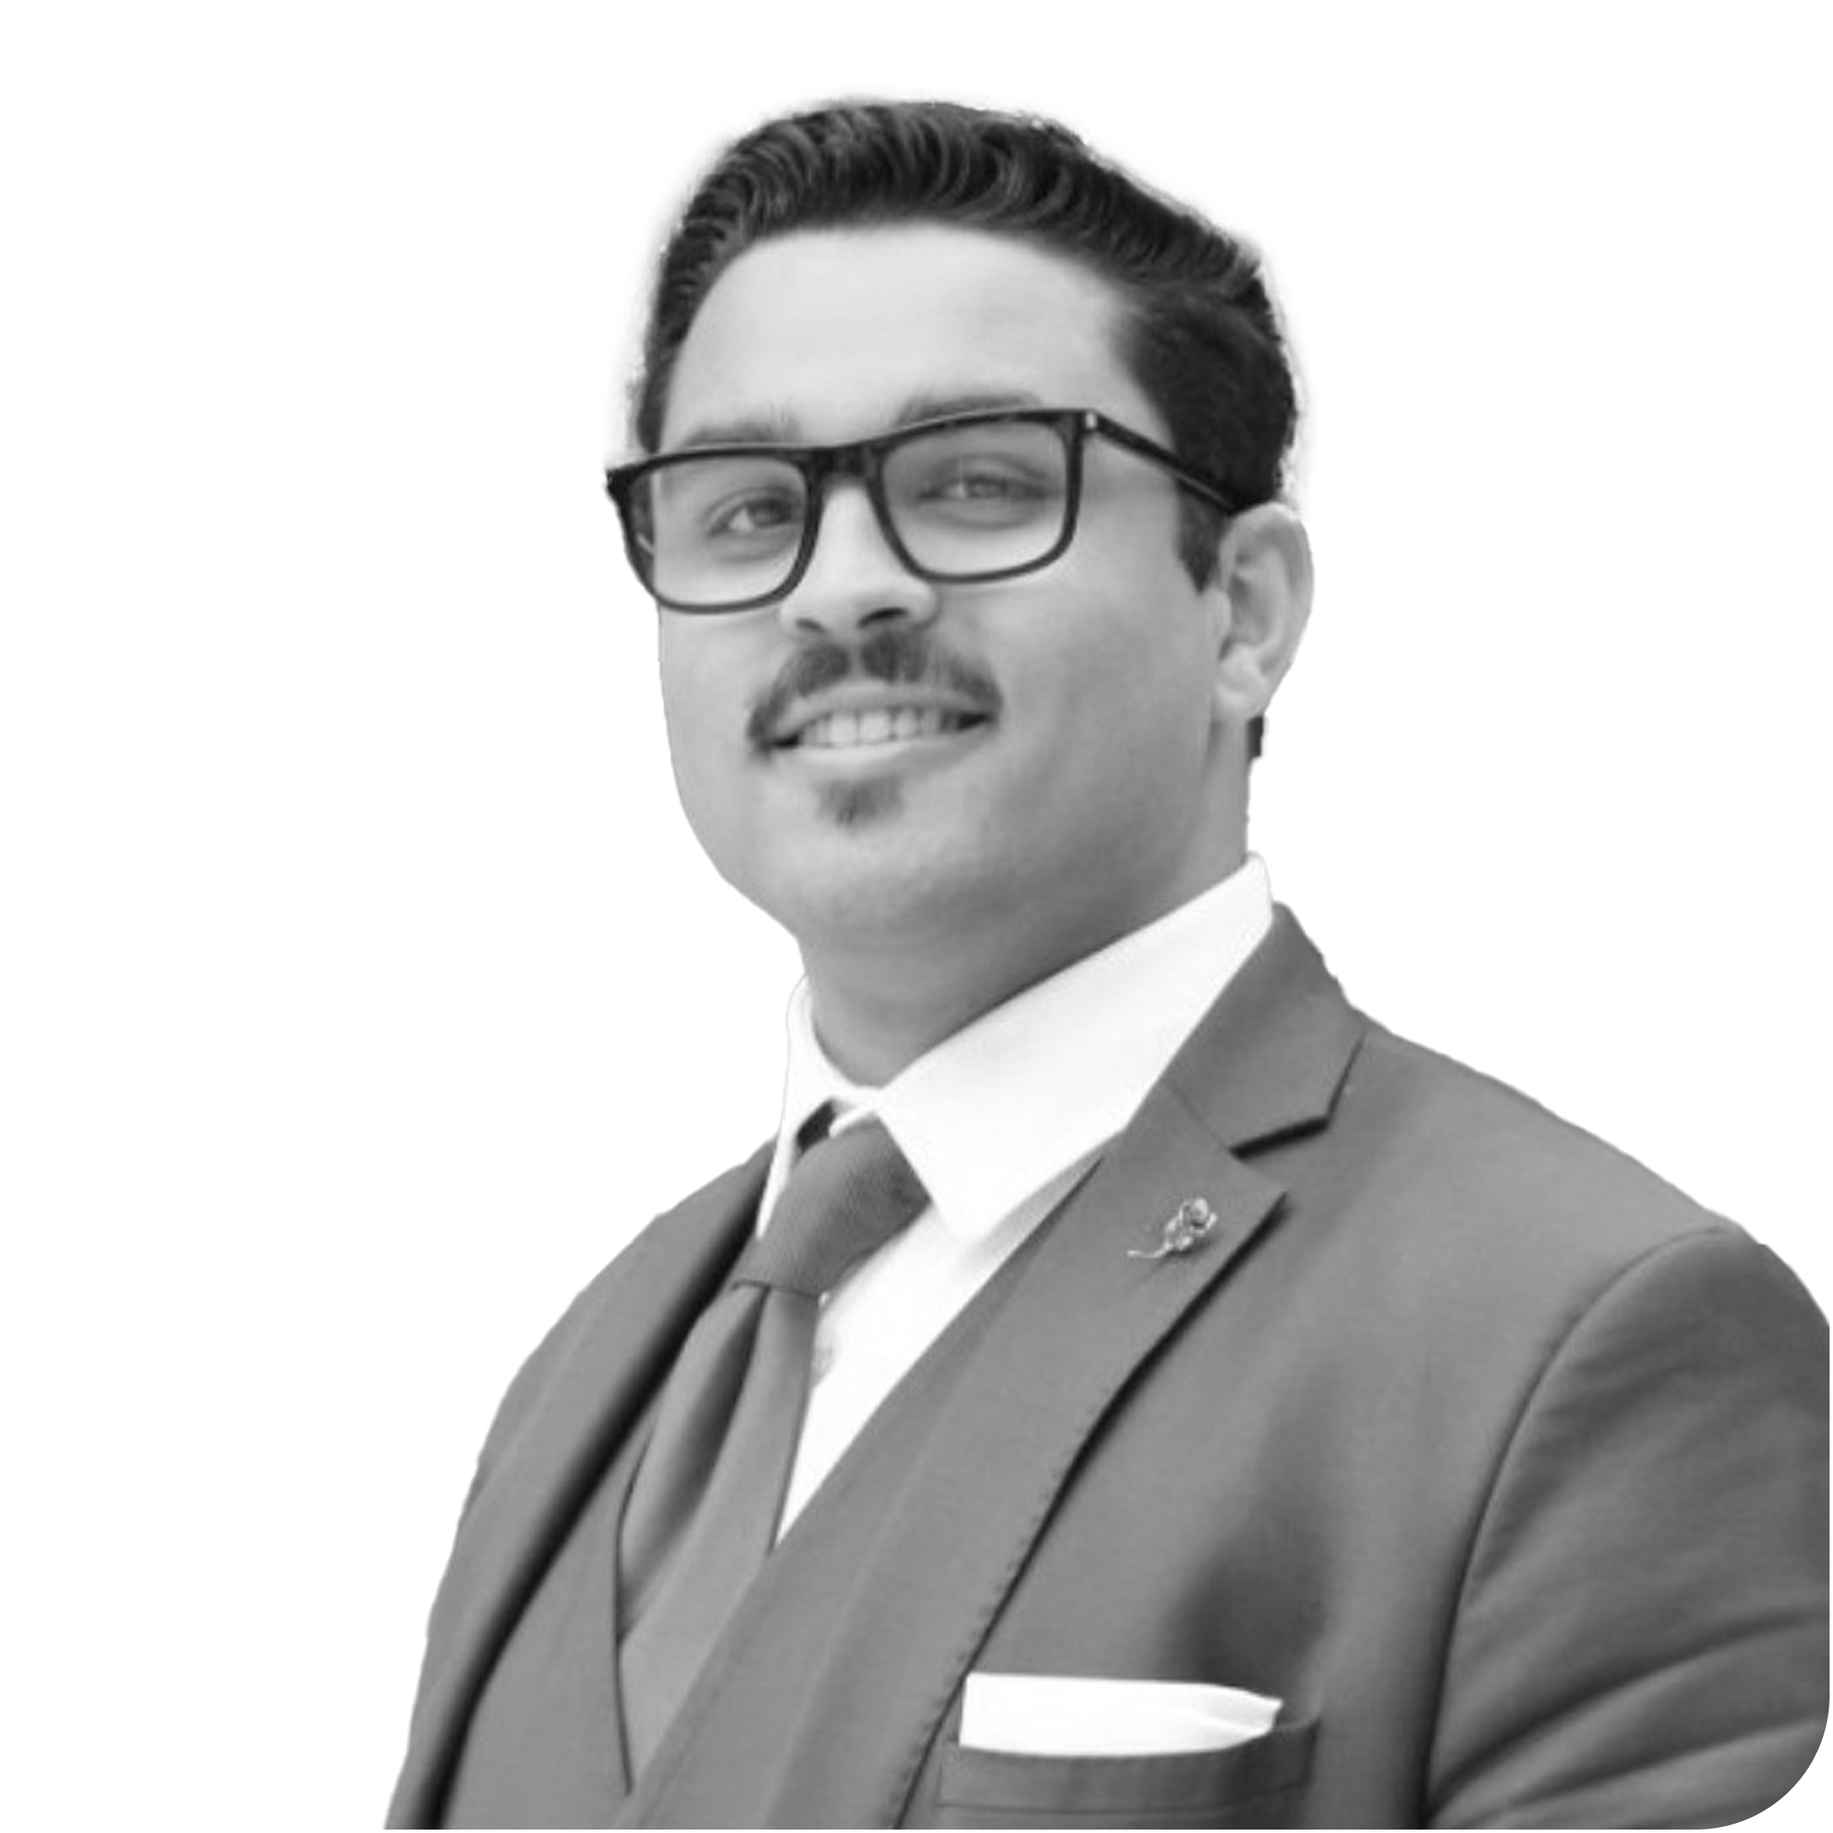
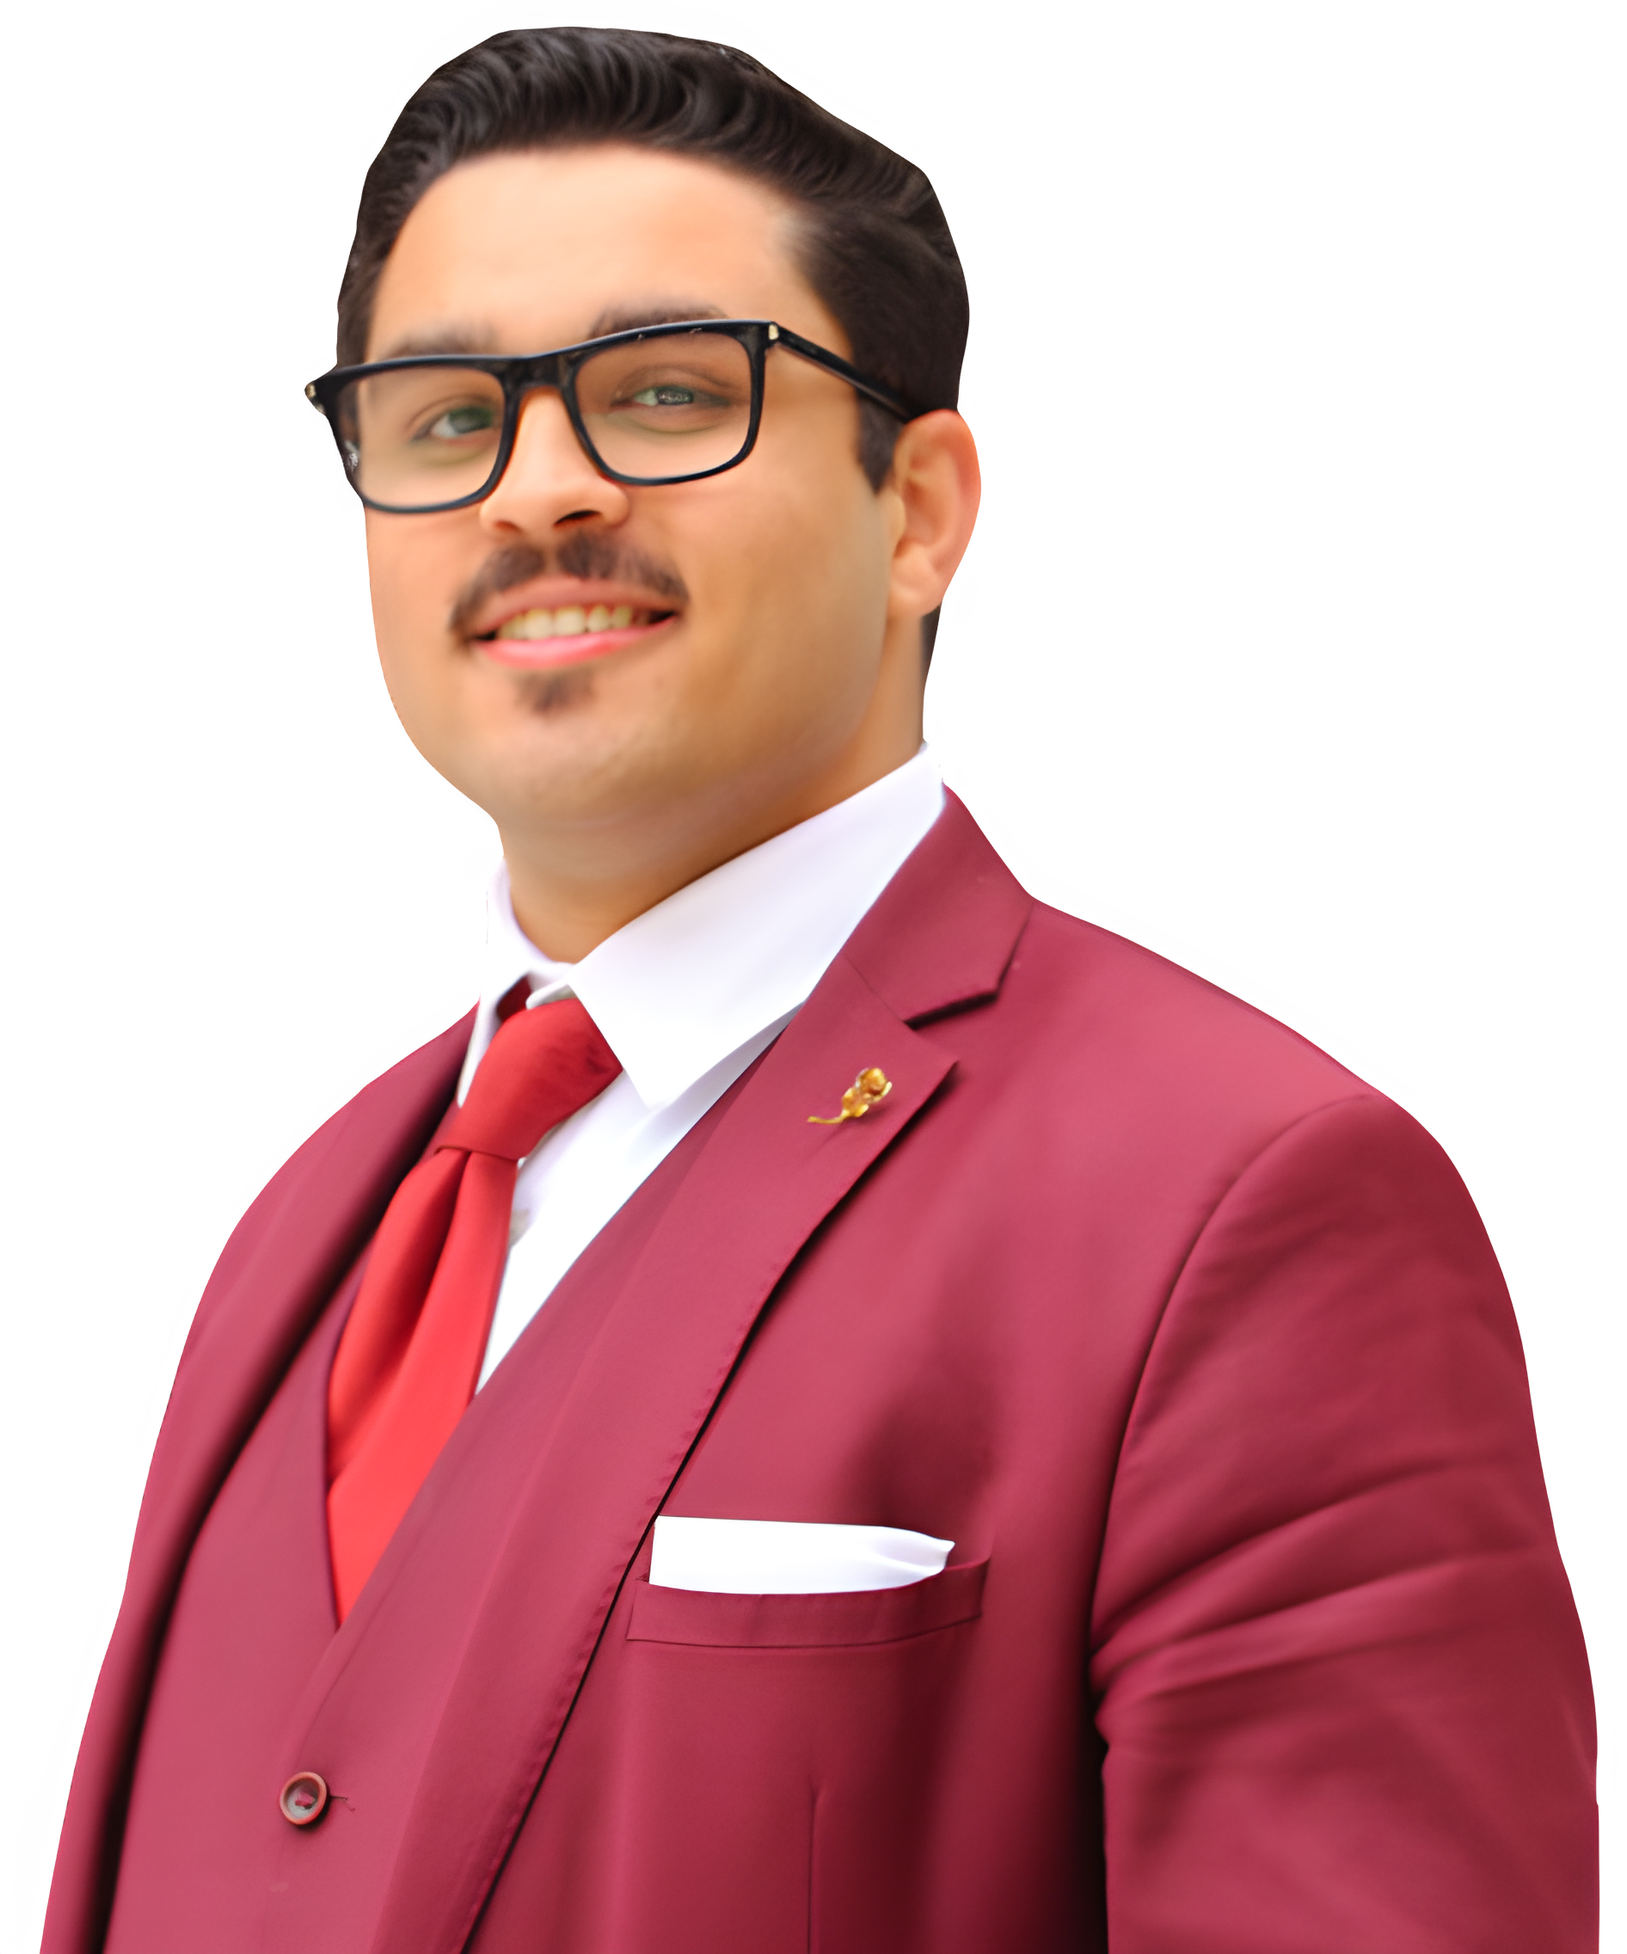
fix: redesign CEO section

diff --git a/src/pages/storypage.jsx b/src/pages/storypage.jsx
@@ -1,7 +1,7 @@
 import React from 'react';
 import { useDarkMode } from '../components/DarkModeContext';
 import big_ring from '../assets/full_big_ring.webp';
-import ceo from '../assets/ceo.png';
+import ceo from '../assets/ceo.webp';
 import star from '../assets/star.png';
 import plus from '../assets/plus.png';
 import pipes from '../assets/pipes.png';
@@ -62,7 +62,7 @@ const StoryPage = () => {
             <span className={`transition-transform duration-300 w-6 h-6 rounded-full flex items-center justify-center bg-white dark:bg-slate-900 shadow-md transform ${isDarkMode ? 'translate-x-6' : 'translate-x-0'}`}>
               {!isDarkMode ? (
                 <svg className="w-5 h-5 text-yellow-400" fill="currentColor" viewBox="0 0 20 20">
-                  <path fillRule="evenodd" d="M10 2a1 1 0 011 1v1a1 1 0 11-2 0V3a1 1 0 011-1zm4 8a4 4 0 11-8 0 4 4 0 018 0zm-.464 4.95l.707.707a1 1 0 001.414-1.414l-.707-.707a1 1 0 00-1.414 1.414zm2.12-10.607a1 1 0 010 1.414l-.706.707a1 1 0 11-1.414-1.414l.707-.707a1 1 0 011.414 0zM17 11a1 1 0 100-2h-1a1 1 0 100 2h1zm-7 4a1 1 0 011 1v1a1 1 0 11-2 0v-1a1 1 0 011-1zM5.05 6.464A1 1 0 106.465 5.05l-.708-.707a1 1 0 00-1.414 1.414l.707.707zm1.414 8.486l-.707.707a1 1 0 01-1.414-1.414l.707-.707a1 1 0 011.414 1.414zM4 11a1 1 0 100-2H3a1 1 0 000 2h1z" clipRule="evenodd" />
+                  <path fillRule="evenodd" d="M10 2a1 1 0 011 1v1a1 1 0 11-2 0V3a1 1 0 011-1zm4 8a4 4 0 11-8 0 4 4 0 018 0zm-.464 4.95l.707.707a1 1 0 001.414-1.414l-.707-.707a1 1 0 00-1.414 1.414zm2.12-10.607a1 1 0 010 1.414l-.706.707a1 1 0 11-1.414-1.414l.707-.707a1 1 0 011.414 0zM17 11a1 1 0 100-2h-1a1 1 0 100 2h1zm-7 4a1 1 0 011 1v1a1 1 0 11-2 v-1a1 1 0 011-1zM5.05 6.464A1 1 0 106.465 5.05l-.708-.707a1 1 0 00-1.414 1.414l.707.707zm1.414 8.486l-.707.707a1 1 0 01-1.414-1.414l.707-.707a1 1 0 011.414 1.414zM4 11a1 1 0 100-2H3a1 1 0 000 2h1z" clipRule="evenodd" />
                 </svg>
               ) : (
                 <svg className="w-5 h-5 text-slate-500" fill="currentColor" viewBox="0 0 20 20">
@@ -76,7 +76,7 @@ const StoryPage = () => {
 
       {/* Hero Section */}
       <motion.section
-        className="relative w-full min-h-screen overflow-hidden transition-colors duration-500 bg-white dark:bg-[#220239] pt-20 sm:pt-28 md:pt-36 pb-20 flex flex-col items-center justify-start"
+        className="relative w-full overflow-hidden transition-colors duration-500 bg-white dark:bg-[#220239] pt-16 sm:pt-24 md:pt-28 lg:pt-32 pb-16 sm:pb-24 lg:pb-32 flex flex-col items-center justify-start"
         initial={{ opacity: 0 }}
         animate={{ opacity: 1 }}
         transition={{ duration: 0.8 }}
@@ -95,18 +95,17 @@ const StoryPage = () => {
           />
           {/* Bottom Fade Gradient*/}
           <div
-            className={`absolute bottom-0 left-0 w-full h-3/4 sm:h-1/4 pointer-events-none bg-gradient-to-b ${
-              isDarkMode
-                ? "from-transparent via-[#220239]/90 to-[#220239]"
-                : "from-transparent via-white/90 to-white"
-            }`}
+            className={`absolute bottom-0 left-0 w-full h-3/4 sm:h-1/4 pointer-events-none bg-gradient-to-b ${isDarkMode
+              ? "from-transparent via-[#220239]/90 to-[#220239]"
+              : "from-transparent via-white/90 to-white"
+              }`}
           />
         </motion.div>
 
         {/* Content Container */}
-        <div className="relative z-10 flex items-center justify-center w-full px-3 sm:px-6 -mt-2 sm:mt-6 md:mt-16 lg:mt-24">
+        <div className="relative z-10 flex items-center justify-center w-full px-3 sm:px-6 mt-2 sm:mt-6 md:mt-16 lg:mt-24">
           <motion.div
-            className="bg-white/40 dark:bg-white/40 backdrop-blur-lg rounded-3xl shadow-2xl max-w-4xl p-5 sm:p-8 md:p-12 text-center border border-white/30 w-full"
+            className="bg-white/40 dark:bg-white/40 backdrop-blur-lg rounded-3xl shadow-2xl w-full sm:w-[90%] md:w-[85%] lg:w-[75%] xl:w-[70%] max-w-[1014px] p-5 sm:p-8 md:p-12 text-center border border-white/30"
             initial={{ y: 50, opacity: 0 }}
             animate={{ y: 0, opacity: 1 }}
             transition={{ delay: 0.3, duration: 0.8 }}
@@ -123,10 +122,10 @@ const StoryPage = () => {
               animate={{ opacity: 1 }}
               transition={{ delay: 0.5, duration: 0.6 }}
             >
-              <h1 className="font-extrabold text-[32px] sm:text-6xl md:text-7xl lg:text-[84px] leading-tight tracking-tight capitalize mb-0.5 sm:mb-1">
+              <h1 className="font-extrabold text-[32px] sm:text-5xl md:text-6xl lg:text-7xl xl:text-[84px] leading-tight tracking-tight capitalize mb-0.5 sm:mb-1">
                 How
               </h1>
-              <h1 className="font-extrabold text-[32px] sm:text-6xl md:text-7xl lg:text-[84px] leading-tight tracking-tight capitalize my-0.5 sm:my-1">
+              <h1 className="font-extrabold text-[32px] sm:text-5xl md:text-6xl lg:text-7xl xl:text-[84px] leading-tight tracking-tight capitalize my-0.5 sm:my-1">
                 PeakTew Started
               </h1>
               <h2 className="font-semibold md:font-bold text-[20px] sm:text-2xl md:text-3xl lg:text-[34px] leading-snug tracking-tight mt-2 sm:mt-3">
@@ -161,101 +160,100 @@ const StoryPage = () => {
 
       {/* CEO Section */}
       <motion.section
-        className={`w-fit bg-white px-4 sm:px-6 py-12 sm:py-16 md:py-20 flex flex-col items-center mt-30 relative`}
+        className="w-full bg-white dark:bg-[#220239] px-3 xs:px-4 sm:px-6 py-2 sm:py-4 md:py-6 flex flex-col items-center relative transition-colors duration-500"
         initial="hidden"
         whileInView="visible"
         variants={staggerContainer}
         viewport={{ once: true, amount: 0.3 }}
       >
-        {/* Right Image */}
-        <motion.div
-          className="hidden md:visible md:flex flex-shrink-0 w-full md:w-[250px] lg:w-[300px] xl:w-[350px] h-[500px] absolute right-7 bottom-20.5 overflow-hidden rounded-3xl"
-          initial={{ x: 20, opacity: 0 }}
-          whileInView={{ x: 0, opacity: 1 }}
-          transition={{ delay: 0.4, duration: 0.6 }}
-          viewport={{ once: true }}
-        >
-          <motion.img
-            src={ceo}
-            alt="CEO"
-            className="w-full h-full object-cover object-top"
-            initial={{ scale: 1.1 }}
-            whileInView={{ scale: 1 }}
-            transition={{ duration: 0.8 }}
-            viewport={{ once: true }}
-          />
+        <div className="max-w-[1080px] w-full flex flex-col items-start pt-1 sm:pt-4">
+          {/* Title Container */}
           <motion.div
-            className="absolute inset-0 bg-purple-500/10 mix-blend-multiply"
-            initial={{ opacity: 0 }}
-            whileHover={{ opacity: 0 }}
-            transition={{ duration: 0.3 }}
-          />
-        </motion.div>
-        <motion.h2
-          className="text-[90px] sm:text-4xl md:text-[72px] font-bold text-purple-700 mb-60 sm:mb-12 text-left"
-          variants={fadeInUp}
-        >
-          I Saw And Felt What Was Missing
-        </motion.h2>
-
-        <motion.div
-          className={`max-w-6xl w-full bg-gradient-to-br ${isDarkMode ? "bg-gradient-to-b from-[#220239] to-[#5F069F]" : "from-white via-purple-50 to-white"} border-2 border-purple-500 rounded-3xl shadow-lg overflow-hidden flex flex-col md:flex-row items-center md:items-stretch md:mt-25`}
-          variants={fadeInUp}
-        // whileHover={{
-        //   y: -5,
-        //   boxShadow:
-        //     "0 20px 25px -5px rgba(0, 0, 0, 0.1), 0 10px 10px -5px rgba(0, 0, 0, 0.04)",
-        // }}
-        // transition={{ type: "spring", stiffness: 300 }}
-        >
-          {/* Left Text */}
-          <motion.div
-            className="flex-2 m-10 p-6 sm:p-8 md:p-10 lg:p-12 text-left text-[#6D28B2] text-sm sm:text-base leading-relaxed w-1/2"
-            initial={{ x: -20, opacity: 0 }}
-            whileInView={{ x: 0, opacity: 1 }}
-            transition={{ delay: 0.2, duration: 0.6 }}
-            viewport={{ once: true }}
+            className="mb-2 sm:mb-4 md:mb-6 lg:mb-8 select-none inline-block bg-clip-text text-transparent !text-transparent pb-2"
+            style={{
+              backgroundImage: isDarkMode
+                ? "linear-gradient(180deg, #FFFFFF 0%, #A62AD2 60%, #6E1CBF 100%)"
+                : "linear-gradient(180deg, #A62AD2 0%, #6E1CBF 40%, #470974 100%)",
+              WebkitBackgroundClip: "text",
+              WebkitTextFillColor: "transparent",
+            }}
+            variants={fadeInUp}
           >
-            <p>
-              The idea for PeakTew stemmed from the observation of society’s
-              growing disconnect caused by excessive phone usage and social
-              media addiction. Recognizing the detrimental effects of this
-              phenomenon on mental health and social well-being, we set out to
-              create a solution that would reconnect people with the real world.
-              Thus, PeakTew was born with a mission to break the cycle of mobile
-              phone addiction and inspire individuals to step out of their
-              comfort zones. Since our inception, we have remained steadfast in
-              our commitment to promoting genuine human connections and tackling
-              the negative effects of isolation.
-            </p>
+            <h2
+              className="font-extrabold sm:font-bold text-[36px] min-[400px]:text-[40px] leading-[44px] min-[400px]:leading-[48px] sm:text-5xl md:text-6xl lg:text-[80px] sm:leading-tight lg:leading-[97px] tracking-[0px] sm:tracking-[-0.4px]"
+              style={{ fontFamily: "'Proxima Nova', sans-serif" }}
+            >
+              {/* Mobile: 3 lines */}
+              <span className="block min-[401px]:hidden">
+                I Saw And Felt<br />
+                What Was<br />
+                Missing
+              </span>
+              {/* Larger Screens: 2 lines */}
+              <span className="hidden min-[401px]:block">
+                I Saw And Felt<br />
+                What Was Missing
+              </span>
+            </h2>
           </motion.div>
-          <div className="flex-1 hidden md:flex"></div>
-          {/* Right Image */}
+
+          {/* Main Card Container */}
           <motion.div
-            className="md:hidden flex-shrink-0 w-full md:w-[250px] lg:w-[300px] xl:w-[350px] h-[500px] overflow-hidden border-none"
-            initial={{ x: 20, opacity: 0 }}
-            whileInView={{ x: 0, opacity: 1 }}
-            transition={{ delay: 0.4, duration: 0.6 }}
-            viewport={{ once: true }}
+            className="relative w-full border-[3px] md:border-[5px] rounded-[28px] sm:rounded-[32px] p-4 min-[400px]:p-5 sm:p-8 md:p-12 shadow-sm flex flex-col min-[401px]:flex-row items-stretch justify-between min-h-[340px] sm:min-h-[380px] md:min-h-[434px] mt-2 min-[400px]:mt-3 sm:mt-4 md:mt-6 lg:mt-8 overflow-hidden min-[401px]:overflow-visible"
+            style={{
+              borderColor: isDarkMode ? '#FFFFFF' : '#6D28B2',
+              background: isDarkMode
+                ? "linear-gradient(169.55deg, rgba(34, 2, 57, 0.95) 7.79%, rgba(95, 6, 159, 0.95) 98.56%)"
+                : "linear-gradient(169.55deg, rgba(217, 217, 217, 0) 7.79%, rgba(109, 40, 178, 0.2) 98.56%)",
+            }}
+            variants={fadeInUp}
           >
-            <motion.img
-              src={ceo}
-              alt="CEO"
-              className="w-full h-full object-cover object-top"
-              initial={{ scale: 1.1 }}
-              whileInView={{ scale: 1 }}
-              transition={{ duration: 0.8 }}
-              viewport={{ once: true }}
-            />
+            {/* Paragraph Text */}
             <motion.div
-              className="absolute inset-0 bg-purple-500/10 mix-blend-multiply"
-              initial={{ opacity: 0 }}
-              whileHover={{ opacity: 0 }}
-              transition={{ duration: 0.3 }}
-            />
-          </motion.div>
+              className="w-full min-[401px]:w-[54%] md:w-[58%] lg:w-[60%] z-10 text-left text-[#6D28B2] dark:text-white text-[12px] min-[400px]:text-[13px] sm:text-base md:text-[20px] leading-[135%] sm:leading-[130%] font-semibold space-y-2 min-[400px]:space-y-3 min-[401px]:space-y-0"
+              style={{ fontFamily: "'Proxima Nova', sans-serif" }}
+              initial={{ x: -20, opacity: 0 }}
+              whileInView={{ x: 0, opacity: 1 }}
+              transition={{ delay: 0.2, duration: 0.6 }}
+              viewport={{ once: true }}
+            >
+              {/* Paragraph 1 */}
+              <p className="w-full">
+                The idea for PeakTew stemmed from the observation of society’s
+                growing disconnect caused by excessive phone usage and social
+                media addiction. Recognizing the detrimental effects of this
+                phenomenon on mental health and social well-being, we set out to
+                create a solution that would reconnect people with the real world.
+              </p>
 
-        </motion.div>
+              {/* Paragraph 2 */}
+              <p className="w-[50%] min-[400px]:w-[52%] min-[401px]:w-full pt-1 sm:pt-3">
+                Thus, PeakTew was born with a mission to break the cycle of mobile
+                phone addiction and inspire individuals to step out of their
+                comfort zones. Since our inception, we have remained steadfast in
+                our commitment to promoting genuine human connections and tackling
+                the negative effects of isolation.
+              </p>
+            </motion.div>
+
+            {/* CEO Image */}
+            <motion.div
+              className="absolute right-0 bottom-0 top-0 min-[401px]:top-[-80px] sm:top-[-100px] md:top-[-140px] lg:top-[-180px] w-[50%] min-[400px]:w-[48%] min-[401px]:w-[46%] md:w-[42%] max-w-[460px] pointer-events-none z-20 flex justify-end items-end"
+              initial={{ x: 20, opacity: 0 }}
+              whileInView={{ x: 0, opacity: 1 }}
+              transition={{ delay: 0.4, duration: 0.6 }}
+              viewport={{ once: true }}
+            >
+              <div className="w-full h-full flex justify-end items-end overflow-hidden rounded-br-[22px] sm:rounded-br-[28px]">
+                <img
+                  src={ceo}
+                  alt="CEO"
+                  className="w-full h-auto min-[401px]:h-[115%] object-contain object-bottom select-none pointer-events-auto transform translate-y-0 min-[401px]:translate-y-1 scale-100 min-[401px]:scale-105 origin-bottom"
+                />
+              </div>
+            </motion.div>
+          </motion.div>
+        </div>
       </motion.section>
 
       {/* Milestones Section */}
